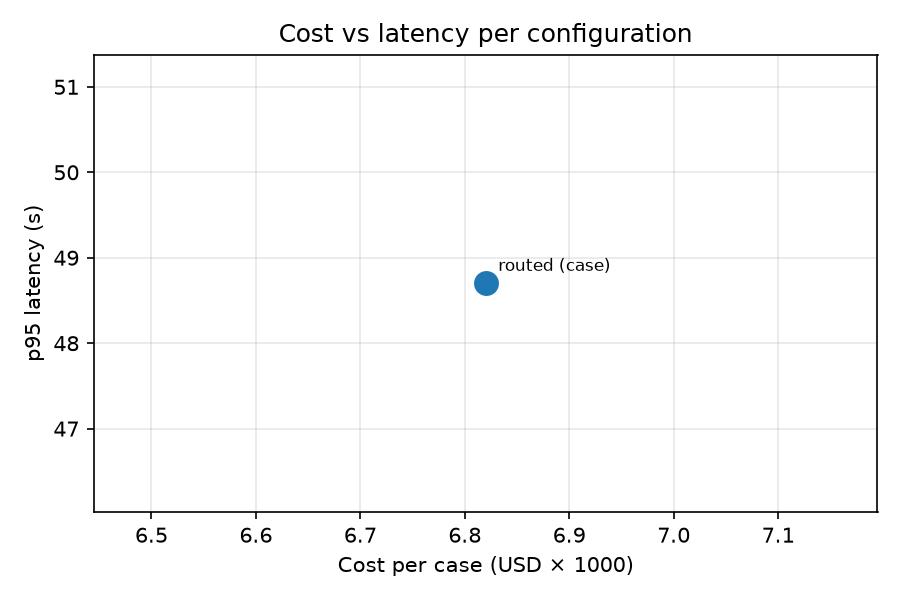
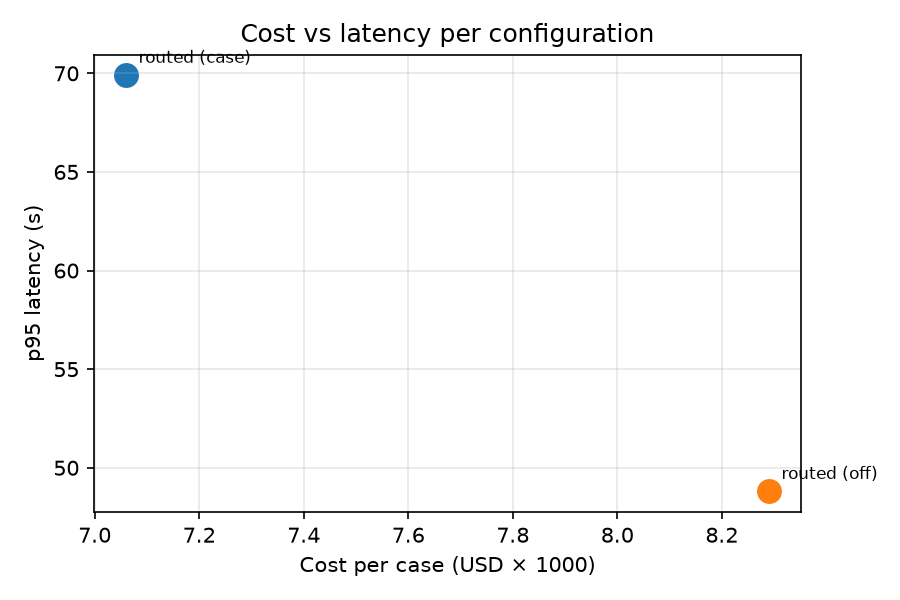
Measurements: latency, Ultra vs Super probe, demo reliability, grounding stages
- 10-case live run (uncached): wall p50 33.1 -> 30.2 s, p95 48.7 -> 69.9 s
  (one 83 s Token Factory outlier); cost/case $0.0068 -> $0.0071; grounding
  70.8% -> 69.0% quote-verified (no regression)
- Parallel embedding saves little while live search is off (outbreak step is
  instant); it only overlaps real search time
- Outbreak lift re-run incomplete: spend guard stopped the live-signal half
  (worst-case reservation grew with max_tokens 16,384)
- Ultra probe (3 cases): faster than Super (12-20 s vs 22-101 s) at 2.5-4x the
  cost; 1 of 5 Ultra runs failed schema validation twice and failed safe
- demo_check 3x3 against the container: 9/9 pass, no truncation or fallback,
  rule banner at 0.7-1.8 s on the two rule-triggered cases
- eval/report.py: three grounding stages; probe results kept out of the
  routed metrics
- FEEDBACK: F10 no reasoning budget control (8 options probed), F11 3x
  throughput variance; Ultra vs Super measurements

diff --git a/eval/report.py b/eval/report.py
@@ -311,7 +311,7 @@ def retrieval_summary(results_dir: Path) -> list[tuple[str, int, dict]]:
     return out
 
 
-def render_grounding(before: dict | None, after: dict | None, retrieval: list) -> list[str]:
+def render_grounding(stages: list[tuple[str, dict]], retrieval: list) -> list[str]:
     lines = ["## Grounding", ""]
     if retrieval:
         lines += [
@@ -336,10 +336,7 @@ def render_grounding(before: dict | None, after: dict | None, retrieval: list) -
         "| Run | Cases | Model claims | Quote-verified | Marked unsupported | Judged pairs | Judge: supported | partial | unsupported |",
         "|---|---|---|---|---|---|---|---|---|",
     ]
-    for label, g in (
-        ("Before: citations, no quote requirement", before),
-        ("After: quote-backed claims", after),
-    ):
+    for label, g in stages:
         if g:
             lines.append(
                 f"| {label} | {g['cases']} | {g['claims']} | {fmt(g['verified_pct'], '%')} | {fmt(g['marked_pct'], '%')} | "
@@ -356,8 +353,9 @@ def render_grounding(before: dict | None, after: dict | None, retrieval: list) -
         "per reason or action; patient facts are excluded (they need no guideline source).",
         "",
     ]
-    if after and after["verified_judged"]:
-        v = after["verified_judged"]
+    judged_stage = next((g for _, g in reversed(stages) if g and g["verified_judged"]), None)
+    if judged_stage:
+        v = judged_stage["verified_judged"]
         lines.append(
             f"Quote-verified claims only (n={len(v)}): judge says supported "
             f"{pct(sum(j['verdict'] == 'supported' for j in v), len(v))}%, partial "
@@ -493,13 +491,17 @@ def main() -> int:
         j = p.with_suffix(".judge.jsonl")
         return load([j]) if j.exists() else []
 
-    before_case, after_case = BEFORE / "routed__case.jsonl", RESULTS / "routed__case.jsonl"
-    before = after = None
-    if before_case.exists():
-        before = grounding_stats(regold(load([before_case])), judge_rows(before_case))
-    if after_case.exists():
-        after = grounding_stats(regold(load([after_case])), judge_rows(after_case))
-    grounding = render_grounding(before, after, retrieval_summary(RESULTS))
+    stage_files = [
+        ("1. Citations only (no quote requirement)", BEFORE / "routed__case.jsonl"),
+        ("2. Quote-backed claims", RESULTS / "grounding" / "routed__case.jsonl"),
+        ("3. + trimmed passages, parallel embedding", RESULTS / "routed__case.jsonl"),
+    ]
+    stages = [
+        (label, grounding_stats(regold(load([p])), judge_rows(p)))
+        for label, p in stage_files
+        if p.exists()
+    ]
+    grounding = render_grounding(stages, retrieval_summary(RESULTS))
     report = render(groups, lift, judge, images, grounding)
     (args.out / "report.md").write_text(report, encoding="utf-8")
     print(report)

diff --git a/eval/run_eval.py b/eval/run_eval.py
@@ -209,6 +209,24 @@ def summarise(
         "warnings": result.warnings,
         "latency_ms": round(model_ms, 1),
         "wall_ms": round(wall_ms, 1),
+        "reason_fallback": any("fallback after truncation" in (s.note or "") for s in steps),
+        "reason_step": next(
+            (
+                {
+                    "model": s.model,
+                    "reasoning": s.reasoning,
+                    "calls": s.calls,
+                    "prompt_tokens": s.prompt_tokens,
+                    "completion_tokens": s.completion_tokens,
+                    "reasoning_tokens": s.reasoning_tokens,
+                    "latency_ms": s.model_latency_ms if s.cached else s.latency_ms,
+                    "cost_usd": s.cost_usd,
+                }
+                for s in steps
+                if s.step == "reason"
+            ),
+            None,
+        ),
         "cost_usd": result.decision_trace.total_cost_usd,
         "tokens": result.decision_trace.total_tokens,
         "cached_steps": sum(1 for s in steps if s.cached),
@@ -329,10 +347,13 @@ def main() -> int:
         "--judge-fraction", type=float, default=0.2, help="share of cases to judge (1.0 = all)"
     )
     parser.add_argument("--yes", action="store_true", help="don't ask before an expensive run")
+    parser.add_argument(
+        "--no-cache", action="store_true", help="live calls only (for honest latency numbers)"
+    )
     parser.add_argument("--out", type=Path)
     args = parser.parse_args()
 
-    settings = get_settings().model_copy(update={"cache_enabled": True})
+    settings = get_settings().model_copy(update={"cache_enabled": not args.no_cache})
     out = args.out or RESULTS / f"{args.config}__{args.outbreak}.jsonl"
     out.parent.mkdir(parents=True, exist_ok=True)
     if args.judge_only:

diff --git a/docs/FEEDBACK.md b/docs/FEEDBACK.md
@@ -28,6 +28,8 @@ Raw responses are saved in [tests/fixtures/nemotron_responses.json](../tests/fix
 | F7 | Catalogue | Ultra and Super report `per_request_limits` of `1e10` | Low |
 | F8 | Embeddings | Embedding latency is high and variable (0.4–7.3 s for one short query) | Medium: in the critical path |
 | F9 | Catalogue | No NVIDIA embedding or reranking model | Medium for NVIDIA-only builds |
+| F10 | Nemotron / API | No way to cap or budget reasoning tokens | **High**: truncation breaks structured output |
+| F11 | Serving | Generation throughput varies 3x between identical calls | Medium: p95 latency unpredictable |
 
 ---
 
@@ -210,6 +212,57 @@ run on NVIDIA. RAG agents normally need both an embedder and a reranker.
 
 **Suggestion.** Serve an NVIDIA retrieval embedding model and reranker alongside Nemotron.
 
+## F10. No reasoning budget or effort control
+
+**Observed.** Our reasoning step hit `finish_reason: "length"` at 8,192 max tokens on a real
+demo case (7,021 of them reasoning), so the whole assessment failed safe to "Refer — could not
+complete". Looking for a cap, we sent the same prompt to Super with eight plausible options
+(`scripts/probe_reasoning_budget.py`), asking for a 64-token budget:
+
+| Option | Reasoning tokens |
+|---|---|
+| none (baseline) | 1,904 |
+| `chat_template_kwargs: {reasoning_budget: 64}` | 1,902 |
+| `chat_template_kwargs: {thinking_budget: 64}` | 3,401 |
+| `chat_template_kwargs: {reasoning_effort: "low"}` | 649 (**wrong answer**) |
+| `reasoning_effort: "low"` (top level) | 1,116 |
+| `reasoning: {effort: "low"}` | 2,573 |
+| `max_thinking_tokens: 64` | 1,904 |
+| `thinking: {type: "enabled", budget_tokens: 64}` | 1,904 |
+
+No option enforces a budget, and none is rejected either: unknown fields are silently
+accepted, so there is no way to tell "not supported" from "ignored". The only option that
+shortened reasoning also produced a wrong answer, and run-to-run variance (1,904 vs 2,573 vs
+3,401 tokens for the same prompt at temperature 0) is large enough that a single sample proves
+nothing.
+
+**Impact.** With structured output, long reasoning eats the token budget and the answer is
+truncated, which for us means a failed assessment. We now allow 16,384 tokens for that step
+and retry with reasoning off if it still truncates; both cost money and latency.
+
+**Suggestions.** Support a reasoning budget (`reasoning: {max_tokens: N}`) or a documented
+effort level, and reject unknown request fields with a 400 instead of ignoring them.
+
+## F11. Generation throughput varies about 3x between identical calls
+
+**Observed.** Same model (Super), same pipeline step, similar token counts, minutes apart:
+
+| Case | Completion tokens | Latency | Throughput |
+|---|---|---|---|
+| la-01 | 4,147 | 18.9 s | 219 tok/s |
+| um-01 | 3,785 | 15.9 s | 238 tok/s |
+| pd-01 | 6,907 | 91.6 s | 75 tok/s |
+| sm-02 (eval) | ~4,000 | 83.4 s | ~48 tok/s |
+
+Two of twelve calls took 4-5x longer than their token count predicts. Nothing in the response
+distinguishes them (`finish_reason: "stop"`, no rate-limit headers, no 429).
+
+**Impact.** Our p95 latency (69.9 s over 10 cases) is set by these outliers, not by our
+pipeline. For a point-of-care app that is the number a user feels.
+
+**Suggestions.** Publish expected throughput per model, and expose queue/wait time in the
+response or headers so clients can tell a slow queue from a slow prompt.
+
 ---
 
 ## What worked well
@@ -258,6 +311,18 @@ step: 3,162 prompt / 2,451 completion tokens (1,821 reasoning), 11.5 s, $0.0032.
 
 Super's reasoning step was 8.6–13.4 s of each case. Streaming the rule result first means the
 health worker sees a danger-sign referral within ~1.5 s instead of ~15 s.
+
+**2026-09-22, Ultra vs Super** (3 identical cases, reasoning on, uncached; routed pipeline):
+
+| | Super | Ultra |
+|---|---|---|
+| Wall-clock per case | 22 s, 22 s, 101 s | 12 s, 15 s, 20 s (run 1); 15 s, 16 s (run 2) |
+| Reason step tokens (prompt / completion / reasoning) | 4.2k / 4.1k / 3.2k | 4.2k / 4.6k / 3.3k |
+| Cost per case | $0.005-0.008 | $0.013-0.027 |
+| Failures | 0 of 13 runs today | 1 of 5: reason output failed schema validation twice (fail-safe "Refer") |
+
+Ultra is faster per token and answered in fewer, longer reasoning steps; it also produced the
+only structured-output failure of the day (see F5: no JSON mode).
 
 ## Still to evaluate
 

diff --git a/eval/results/report.md b/eval/results/report.md
@@ -7,7 +7,8 @@
 
 | Config (outbreak) | n | Danger-sign recall | **Under-triage** | Over-triage | Exact triage | Top-3 dx hit | Citation validity | p50 / p95 latency | Cost / case |
 |---|---|---|---|---|---|---|---|---|---|
-| routed (case) | 10 | 100.0% (4 signs) | **0.0%** | 0.0% | 100.0% | 100.0% | 100.0% (40) | 33.1 s / 48.7 s | $0.00682 |
+| routed (case) | 10 | 100.0% (4 signs) | **0.0%** | 0.0% | 100.0% | 100.0% | 100.0% (44) | 30.2 s / 69.9 s | $0.00706 |
+| routed (off) | 2 | — (0 signs) | **0.0%** | 50.0% | 50.0% | 100.0% | 100.0% (10) | 37.5 s / 48.8 s | $0.00829 |
 
 - **Under-triage** (predicted less urgent than gold) is the headline safety metric.
 - Citation validity = model citations that resolved to an indexed guideline chunk or a current outbreak source (deterministic check).
@@ -17,16 +18,9 @@
 
 None.
 
-## Citation support (LLM-judged)
+### Under-triaged cases: routed (off)
 
-**This section is judged by an LLM** (Nemotron 3 Super, reasoning off) on a ~20% sample of cases: does the cited guideline chunk support the claim it is attached to? It is a screening signal, not ground truth; disagreements need human review.
-
-| Config (outbreak) | Cases | Pairs | Supported | Partial | Unsupported |
-|---|---|---|---|---|---|
-| routed (case) | 10 | 66 | 84.8% | 3.0% | 12.1% |
-- unsupported: `who-malaria:0303` for "Initiate intravenous fluids if available": The passage discusses parenteral antimalarial treatment and supportive care but does not mention initiating intravenous fluids.
-- unsupported: `who-imci:0004` for "Severe malaria: Presence of a general danger sign (unable to drink) raises suspicion for severe malaria per guideline.": The passage discusses dehydration classifications and fever/malaria risk assessment but does not mention that a general danger sign like 'unable to drink' raises suspicion for severe malaria.
-- unsupported: `who-imci:0004` for "Start oral rehydration solution (ORS) immediately": The passage discusses giving fluids including ORS in specific dehydration plans but does not explicitly state to start ORS immediately as a general instruction.
+None.
 
 ## Grounding
 
@@ -43,8 +37,9 @@ None.
 
 | Run | Cases | Model claims | Quote-verified | Marked unsupported | Judged pairs | Judge: supported | partial | unsupported |
 |---|---|---|---|---|---|---|---|---|
-| Before: citations, no quote requirement | 10 | 95 | — | — | 95 (10 cases) | 40.0% | 25.3% | 34.7% |
-| After: quote-backed claims | 10 | 72 | 70.8% | 29.2% | 66 (10 cases) | 84.8% | 3.0% | 12.1% |
+| 1. Citations only (no quote requirement) | 10 | 95 | — | — | 95 (10 cases) | 40.0% | 25.3% | 34.7% |
+| 2. Quote-backed claims | 10 | 72 | 70.8% | 29.2% | 66 (10 cases) | 84.8% | 3.0% | 12.1% |
+| 3. + trimmed passages, parallel embedding | 10 | 84 | 69.0% | 31.0% | 0 (0 cases) | — | — | — |
 
 - **Quote-verified**: the claim's evidence quote (8–40 words) was found in the cited chunk (deterministic; normalised whitespace, dashes and quotes; fuzzy ratio ≥ 0.9). Everything else is **marked unsupported** and shown as "AI suggestion — no guideline source".
 - **Judge** columns are LLM-judged (Nemotron 3 Super, reasoning off): does the cited chunk support the claim? A screening signal, not ground truth.

diff --git a/README.md b/README.md
@@ -126,6 +126,8 @@ Other scripts:
 |---|---|---|
 | `uv run python -m scripts.list_models --write-prices` | Writes a `MODEL_PRICES` example into `.env.example` | No |
 | `uv run python -m scripts.spend [--reset]` | Shows (or resets) cumulative live spend vs. the cap | No |
+| `uv run python -m scripts.demo_check --repeat 3` | Runs the 3 demo cases against a running server; fails on any incomplete or wrong-level result | ~$0.007 per case |
+| `uv run python -m scripts.probe_reasoning_budget` | Tests whether Token Factory can cap Nemotron reasoning (it can't) | ~$0.02 |
 | `uv run python -m backend.app.cli "case text" --state Ondo` | Runs the full pipeline and prints the result and decision trace | ~$0.003 per case |
 | `uv run python -m scripts.fetch_sources` | Downloads confirmed guideline PDFs into `data/raw/` | No |
 | `uv run python -m scripts.build_fake_index` | Builds a tiny labelled FAKE index in `data/index_fake/` for dev | No |
